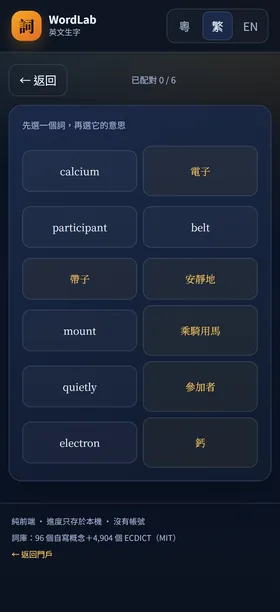
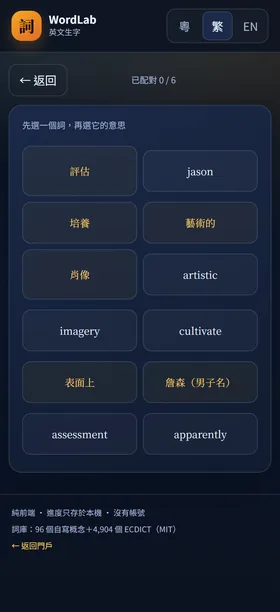
Update hub landing page

diff --git a/wordlab/examples-pack8.js b/wordlab/examples-pack8.js
@@ -32,7 +32,7 @@
   "nut": { "exEn": "The nut is hard.", "exZh": "堅果很硬。", "source": "WordLab" },
   "flour": { "exEn": "We mix flour and water.", "exZh": "我們混合麵粉和水。", "source": "WordLab" },
   "dough": { "exEn": "The dough is soft.", "exZh": "麵團很軟。", "source": "WordLab" },
-  "cream": { "exEn": "Put cream on the cake.", "exZh": "在蛋糕上塗忌廉。", "source": "WordLab" },
+  "cream": { "exEn": "Put cream on the cake.", "exZh": "在蛋糕上塗忌廉。", "zh": "忌廉", "source": "WordLab" },
   "pie": { "exEn": "We bake an apple pie.", "exZh": "我們烤蘋果批。", "source": "WordLab" },
   "cherry": { "exEn": "The cherry is red.", "exZh": "櫻桃是紅色的。", "source": "WordLab" },
   "coast": { "exEn": "We walk along the coast.", "exZh": "我們沿著海岸走。", "source": "WordLab" },
@@ -45,12 +45,12 @@
   "glove": { "exEn": "I wear a glove on my hand.", "exZh": "我手上戴著手套。", "source": "WordLab" },
   "jacket": { "exEn": "Put on your jacket.", "exZh": "穿上你的外套。", "source": "WordLab" },
   "sweater": { "exEn": "Her sweater is warm.", "exZh": "她的毛衣很暖。", "source": "WordLab" },
-  "cap": { "exEn": "He wears a blue cap.", "exZh": "他戴著藍色帽子。", "source": "WordLab" },
+  "cap": { "exEn": "He wears a blue cap.", "exZh": "他戴著藍色帽子。", "zh": "帽子", "source": "WordLab" },
   "belt": { "exEn": "The belt is too long.", "exZh": "皮帶太長。", "source": "WordLab" },
-  "tie": { "exEn": "Dad wears a tie to work.", "exZh": "爸爸打領帶上班。", "source": "WordLab" },
+  "tie": { "exEn": "Dad wears a tie to work.", "exZh": "爸爸打領帶上班。", "zh": "領帶", "source": "WordLab" },
   "uniform": { "exEn": "Our school uniform is white.", "exZh": "我們的校服是白色的。", "source": "WordLab" },
   "pocket": { "exEn": "The key is in my pocket.", "exZh": "鑰匙在我的口袋裡。", "source": "WordLab" },
-  "button": { "exEn": "Press the button.", "exZh": "按下按鈕。", "source": "WordLab" },
+  "button": { "exEn": "Press the button.", "exZh": "按下按鈕。", "zh": "按鈕", "source": "WordLab" },
   "van": { "exEn": "The van is white.", "exZh": "貨車是白色的。", "source": "WordLab" },
   "subway": { "exEn": "We take the subway to school.", "exZh": "我們坐地鐵上學。", "source": "WordLab" },
   "helicopter": { "exEn": "The helicopter flies over the city.", "exZh": "直升機飛過城市。", "source": "WordLab" },
@@ -58,16 +58,16 @@
   "wagon": { "exEn": "The child pulls a wagon.", "exZh": "孩子拉著四輪車。", "source": "WordLab" },
   "cart": { "exEn": "The cart is full of boxes.", "exZh": "手推車裝滿箱子。", "source": "WordLab" },
   "envelope": { "exEn": "Put the letter in an envelope.", "exZh": "把信放進信封。", "source": "WordLab" },
-  "stamp": { "exEn": "I put a stamp on the envelope.", "exZh": "我在信封上貼郵票。", "source": "WordLab" },
+  "stamp": { "exEn": "I put a stamp on the envelope.", "exZh": "我在信封上貼郵票。", "zh": "郵票", "source": "WordLab" },
   "diary": { "exEn": "I write in my diary.", "exZh": "我在日記裡寫字。", "source": "WordLab" },
   "album": { "exEn": "The album has many photos.", "exZh": "相簿裡有很多照片。", "source": "WordLab" },
   "textbook": { "exEn": "Open your textbook.", "exZh": "打開你的教科書。", "source": "WordLab" },
-  "exercise": { "exEn": "We do an exercise in class.", "exZh": "我們在課堂做練習。", "source": "WordLab" },
-  "grade": { "exEn": "She is in Grade Three.", "exZh": "她讀三年級。", "source": "WordLab" },
-  "mark": { "exEn": "I got a good mark.", "exZh": "我得到好成績。", "source": "WordLab" },
+  "exercise": { "exEn": "We do an exercise in class.", "exZh": "我們在課堂做練習。", "zh": "練習", "source": "WordLab" },
+  "grade": { "exEn": "She is in Grade Three.", "exZh": "她讀三年級。", "zh": "年級", "source": "WordLab" },
+  "mark": { "exEn": "I got a good mark.", "exZh": "我得到好成績。", "zh": "分數", "source": "WordLab" },
   "score": { "exEn": "The score is two to one.", "exZh": "比分是二比一。", "source": "WordLab" },
   "pupil": { "exEn": "Every pupil has a book.", "exZh": "每個學生都有一本書。", "source": "WordLab" },
-  "term": { "exEn": "The new term starts today.", "exZh": "新學期今天開始。", "source": "WordLab" },
+  "term": { "exEn": "The new term starts today.", "exZh": "新學期今天開始。", "zh": "學期", "source": "WordLab" },
   "semester": { "exEn": "We have a test this semester.", "exZh": "我們這學期有測驗。", "source": "WordLab" },
   "piano": { "exEn": "She plays the piano.", "exZh": "她彈鋼琴。", "source": "WordLab" },
   "guitar": { "exEn": "He plays the guitar.", "exZh": "他彈吉他。", "source": "WordLab" },
@@ -78,15 +78,15 @@
   "spin": { "exEn": "The top can spin.", "exZh": "陀螺會轉。", "source": "WordLab" },
   "slide": { "exEn": "We slide on the ice.", "exZh": "我們在冰上滑。", "source": "WordLab" },
   "swing": { "exEn": "Let us swing on the swing.", "exZh": "我們在鞦韆上盪。", "source": "WordLab" },
-  "march": { "exEn": "The children march in a line.", "exZh": "孩子們排隊前進。", "source": "WordLab" },
-  "race": { "exEn": "We race to the tree.", "exZh": "我們跑到樹那裡比賽。", "source": "WordLab" },
+  "march": { "exEn": "The children march in a line.", "exZh": "孩子們排隊前進。", "zh": "行進", "source": "WordLab" },
+  "race": { "exEn": "We race to the tree.", "exZh": "我們跑到樹那裡比賽。", "zh": "比賽", "source": "WordLab" },
   "pat": { "exEn": "Pat the dog gently.", "exZh": "輕輕拍狗。", "source": "WordLab" },
   "feed": { "exEn": "Please feed the fish.", "exZh": "請餵魚。", "source": "WordLab" },
   "repeat": { "exEn": "Please repeat after me.", "exZh": "請跟我重複。", "source": "WordLab" },
-  "spell": { "exEn": "Can you spell your name?", "exZh": "你會拼你的名字嗎？", "source": "WordLab" },
+  "spell": { "exEn": "Can you spell your name?", "exZh": "你會拼你的名字嗎？", "zh": "拼寫", "source": "WordLab" },
   "match": { "exEn": "This is a good match.", "exZh": "這是一場好比賽。", "source": "WordLab" },
   "honest": { "exEn": "Please be honest.", "exZh": "請誠實。", "source": "WordLab" },
-  "patient": { "exEn": "The nurse is patient.", "exZh": "護士很有耐心。", "source": "WordLab" },
+  "patient": { "exEn": "The nurse is patient.", "exZh": "護士很有耐心。", "zh": "有耐心的", "source": "WordLab" },
   "silly": { "exEn": "That was a silly joke.", "exZh": "那是個傻笑話。", "source": "WordLab" },
   "puzzle": { "exEn": "We do a puzzle together.", "exZh": "我們一起拼圖。", "source": "WordLab" },
   "doll": { "exEn": "The doll has a pink dress.", "exZh": "洋娃娃有粉紅裙子。", "source": "WordLab" },

diff --git a/wordlab/examples-pack6.js b/wordlab/examples-pack6.js
@@ -1,6 +1,6 @@
 window.WORDLAB_EXAMPLES = Object.assign(window.WORDLAB_EXAMPLES || {}, {
   "cup": { "exEn": "The cup is on the table.", "exZh": "杯子在桌上。", "source": "WordLab" },
-  "glass": { "exEn": "The glass is full of water.", "exZh": "玻璃杯裝滿水。", "source": "WordLab" },
+  "glass": { "exEn": "The glass is full of water.", "exZh": "玻璃杯裝滿水。", "zh": "玻璃杯", "source": "WordLab" },
   "box": { "exEn": "The box is open.", "exZh": "盒子是打開的。", "source": "WordLab" },
   "table": { "exEn": "We eat at the table.", "exZh": "我們在桌旁吃飯。", "source": "WordLab" },
   "seat": { "exEn": "Please take your seat.", "exZh": "請坐下。", "source": "WordLab" },
@@ -25,7 +25,7 @@
   "manager": { "exEn": "The manager works in the shop.", "exZh": "經理在商店工作。", "source": "WordLab" },
   "lawyer": { "exEn": "The lawyer helps people.", "exZh": "律師幫助人。", "source": "WordLab" },
   "judge": { "exEn": "The judge listens carefully.", "exZh": "法官仔細聆聽。", "source": "WordLab" },
-  "coach": { "exEn": "The coach teaches us football.", "exZh": "教練教我們踢足球。", "source": "WordLab" },
+  "coach": { "exEn": "The coach teaches us football.", "exZh": "教練教我們踢足球。", "zh": "教練", "source": "WordLab" },
   "customer": { "exEn": "The customer buys a book.", "exZh": "顧客買了一本書。", "source": "WordLab" },
   "partner": { "exEn": "Work with your partner.", "exZh": "和你的夥伴一起工作。", "source": "WordLab" },
   "leader": { "exEn": "She is the leader of our group.", "exZh": "她是我們組的組長。", "source": "WordLab" },
@@ -45,7 +45,7 @@
   "street": { "exEn": "The street is busy.", "exZh": "街道很繁忙。", "source": "WordLab" },
   "center": { "exEn": "The shop is in the center of town.", "exZh": "商店在市中心。", "source": "WordLab" },
   "site": { "exEn": "The building site is near the school.", "exZh": "建築工地在學校附近。", "source": "WordLab" },
-  "court": { "exEn": "The children play on the court.", "exZh": "孩子們在球場玩。", "source": "WordLab" },
+  "court": { "exEn": "The children play on the court.", "exZh": "孩子們在球場玩。", "zh": "球場", "source": "WordLab" },
   "university": { "exEn": "My sister studies at university.", "exZh": "我姐姐在大學讀書。", "source": "WordLab" },
   "neighborhood": { "exEn": "Our neighborhood is quiet.", "exZh": "我們的社區很安靜。", "source": "WordLab" },
   "plate": { "exEn": "The plate is clean.", "exZh": "碟子很乾淨。", "source": "WordLab" },
@@ -55,8 +55,8 @@
   "knife": { "exEn": "The knife is sharp.", "exZh": "刀很鋒利。", "source": "WordLab" },
   "bottle": { "exEn": "The bottle is on the table.", "exZh": "瓶子在桌上。", "source": "WordLab" },
   "stove": { "exEn": "The pot is on the stove.", "exZh": "鍋子在爐上。", "source": "WordLab" },
-  "tap": { "exEn": "Turn off the tap.", "exZh": "關掉水龍頭。", "source": "WordLab" },
-  "shower": { "exEn": "I take a shower every morning.", "exZh": "我每天早上洗澡。", "source": "WordLab" },
+  "tap": { "exEn": "Turn off the tap.", "exZh": "關掉水龍頭。", "zh": "水龍頭", "source": "WordLab" },
+  "shower": { "exEn": "I take a shower every morning.", "exZh": "我每天早上洗澡。", "zh": "淋浴", "source": "WordLab" },
   "toilet": { "exEn": "The toilet is clean.", "exZh": "廁所很乾淨。", "source": "WordLab" },
   "take": { "exEn": "Please take one card.", "exZh": "請拿一張卡。", "source": "WordLab" },
   "use": { "exEn": "I use a pencil to write.", "exZh": "我用鉛筆寫字。", "source": "WordLab" },
@@ -94,9 +94,9 @@
   "certain": { "exEn": "I am certain it is true.", "exZh": "我肯定這是真的。", "source": "WordLab" },
   "personal": { "exEn": "This is my personal book.", "exZh": "這是我的私人書。", "source": "WordLab" },
   "likely": { "exEn": "It is likely to rain.", "exZh": "可能會下雨。", "source": "WordLab" },
-  "single": { "exEn": "I have a single ticket.", "exZh": "我有一張單程票。", "source": "WordLab" },
+  "single": { "exEn": "I have a single ticket.", "exZh": "我有一張單程票。", "zh": "單程的", "source": "WordLab" },
   "wrong": { "exEn": "This answer is wrong.", "exZh": "這個答案錯了。", "source": "WordLab" },
   "fresh": { "exEn": "The bread is fresh.", "exZh": "麵包很新鮮。", "source": "WordLab" },
-  "rich": { "exEn": "The cake is rich and sweet.", "exZh": "蛋糕濃郁又甜。", "source": "WordLab" },
+  "rich": { "exEn": "The rich man shares his food.", "exZh": "那個富有的男人分享他的食物。", "source": "WordLab" },
   "poor": { "exEn": "The poor cat is hungry.", "exZh": "那可憐的貓很餓。", "source": "WordLab" }
 });

diff --git a/wordlab/examples-pack5.js b/wordlab/examples-pack5.js
@@ -19,7 +19,7 @@
   "lamp": { "exEn": "The lamp is on the desk.", "exZh": "燈在書桌上。", "source": "WordLab" },
   "cabinet": { "exEn": "The cups are in the cabinet.", "exZh": "杯子在櫥櫃裡。", "source": "WordLab" },
   "oven": { "exEn": "The cake is in the oven.", "exZh": "蛋糕在烤箱裡。", "source": "WordLab" },
-  "sink": { "exEn": "Wash the dishes in the sink.", "exZh": "在洗碗槽洗碗。", "source": "WordLab" },
+  "sink": { "exEn": "Wash the dishes in the sink.", "exZh": "在洗碗槽洗碗。", "zh": "洗碗槽", "source": "WordLab" },
   "drawer": { "exEn": "The spoons are in the drawer.", "exZh": "匙羹在抽屜裡。", "source": "WordLab" },
   "shelf": { "exEn": "The books are on the shelf.", "exZh": "書在書架上。", "source": "WordLab" },
   "wall": { "exEn": "There is a picture on the wall.", "exZh": "牆上有一幅畫。", "source": "WordLab" },
@@ -70,8 +70,8 @@
   "enter": { "exEn": "Please enter the room quietly.", "exZh": "請安靜地進入房間。", "source": "WordLab" },
   "breathe": { "exEn": "Breathe slowly and stay calm.", "exZh": "慢慢呼吸，保持冷靜。", "source": "WordLab" },
   "crawl": { "exEn": "The baby can crawl.", "exZh": "嬰兒會爬。", "source": "WordLab" },
-  "pick": { "exEn": "Pick a card.", "exZh": "選一張卡。", "source": "WordLab" },
-  "plant": { "exEn": "We plant a tree every year.", "exZh": "我們每年種一棵樹。", "source": "WordLab" },
+  "pick": { "exEn": "Pick a card.", "exZh": "選一張卡。", "zh": "挑選", "source": "WordLab" },
+  "plant": { "exEn": "We plant a tree every year.", "exZh": "我們每年種一棵樹。", "zh": "種植", "source": "WordLab" },
   "afraid": { "exEn": "I am afraid of thunder.", "exZh": "我害怕打雷。", "source": "WordLab" },
   "calm": { "exEn": "Please stay calm.", "exZh": "請保持冷靜。", "source": "WordLab" },
   "gentle": { "exEn": "Be gentle with the kitten.", "exZh": "對小貓要溫柔。", "source": "WordLab" },

diff --git a/wordlab/examples-pack7.js b/wordlab/examples-pack7.js
@@ -76,7 +76,7 @@
   "reduce": { "exEn": "We reduce waste at school.", "exZh": "我們在學校減少浪費。", "source": "WordLab" },
   "accept": { "exEn": "I accept your gift.", "exZh": "我接受你的禮物。", "source": "WordLab" },
   "prepare": { "exEn": "We prepare for the test.", "exZh": "我們為測驗做準備。", "source": "WordLab" },
-  "wonder": { "exEn": "I wonder why the sky is blue.", "exZh": "我想知道天空為何是藍色。", "source": "WordLab" },
+  "wonder": { "exEn": "I wonder why the sky is blue.", "exZh": "我想知道天空為何是藍色。", "zh": "想知道", "source": "WordLab" },
   "fail": { "exEn": "Do not be afraid to fail.", "exZh": "不要害怕失敗。", "source": "WordLab" },
   "discuss": { "exEn": "We discuss the story in class.", "exZh": "我們在課堂討論故事。", "source": "WordLab" },
   "guess": { "exEn": "Can you guess my age?", "exZh": "你可以猜我的年齡嗎？", "source": "WordLab" },

diff --git a/wordlab/examples-pack3.js b/wordlab/examples-pack3.js
@@ -22,7 +22,7 @@
   "exam": { "exEn": "We have an exam on Friday.", "exZh": "我們星期五有考試。", "source": "WordLab" },
   "desk": { "exEn": "My desk is tidy.", "exZh": "我的書桌很整潔。", "source": "WordLab" },
   "chair": { "exEn": "This chair is too small.", "exZh": "這張椅子太小。", "source": "WordLab" },
-  "board": { "exEn": "The teacher writes on the board.", "exZh": "老師在黑板上寫字。", "source": "WordLab" },
+  "board": { "exEn": "The teacher writes on the board.", "exZh": "老師在黑板上寫字。", "zh": "黑板", "source": "WordLab" },
   "classroom": { "exEn": "Our classroom is bright.", "exZh": "我們的課室很明亮。", "source": "WordLab" },
   "park": { "exEn": "We play in the park after school.", "exZh": "我們放學後在公園玩。", "source": "WordLab" },
   "subject": { "exEn": "My favourite subject is science.", "exZh": "我最喜歡的科目是科學。", "source": "WordLab" },

diff --git a/wordlab/sw.js b/wordlab/sw.js
@@ -1,8 +1,8 @@
-/* WordLab service worker（2026-10-25）
+/* WordLab service worker（2026-10-25）
  * Network-first：有網時攞最新，斷網時用快取；導航請求 fallback 去 index.html。
  * 只快取本站靜態檔，冇第三方。
  */
-const CACHE = 'wordlab-v15';
+const CACHE = 'wordlab-v17';
 const ASSETS = [
   './',
   './index.html',

diff --git a/wordlab/app.js b/wordlab/app.js
@@ -19,6 +19,7 @@
     if (extra && !w.exEn && extra.exEn && extra.exZh) {
       w.exEn = extra.exEn;
       w.exZh = extra.exZh;
+      if (extra.zh) w.zh = extra.zh;
       w.exampleSource = extra.source || 'WordLab';
     }
   });
